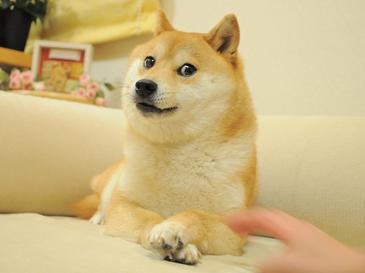
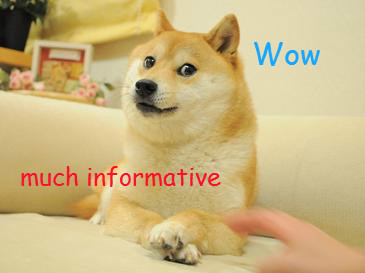
Updating doge meme on about page.

Changed region(s): [[0.2411, 0.5861, 0.6027, 0.7033], [0.6932, 0.1465, 0.874, 0.2637], [0.0603, 0.6154, 0.211, 0.7033]]

diff --git a/contents/about/index.md b/contents/about/index.md
@@ -1,14 +1,14 @@
 ---
-title: omg hai
+title: About Me
 author: chad
 template: page.html
 nav: about
 ---
-
-<img src="doge.jpg" alt="Doge" class="doge" title="much informative" />
 
 Hello gentle internet traveller. I am Chad -- a software developer based out of New Orleans.
 
 I am currently working on creating efficient web frameworks and user experiences at [Archon Information Systems](http://archoninfosys.com/). In my spare time, I often contribute to the [open source community](https://github.com/chadly).
 
 If you want to send me a message, you can always use [INTERNET MAIL](mailto:hello@chadly.net). It is a fast new way to communicate without having to use the post office.
+
+<img src="doge.jpg" alt="Doge" class="doge" title="much informative" />
